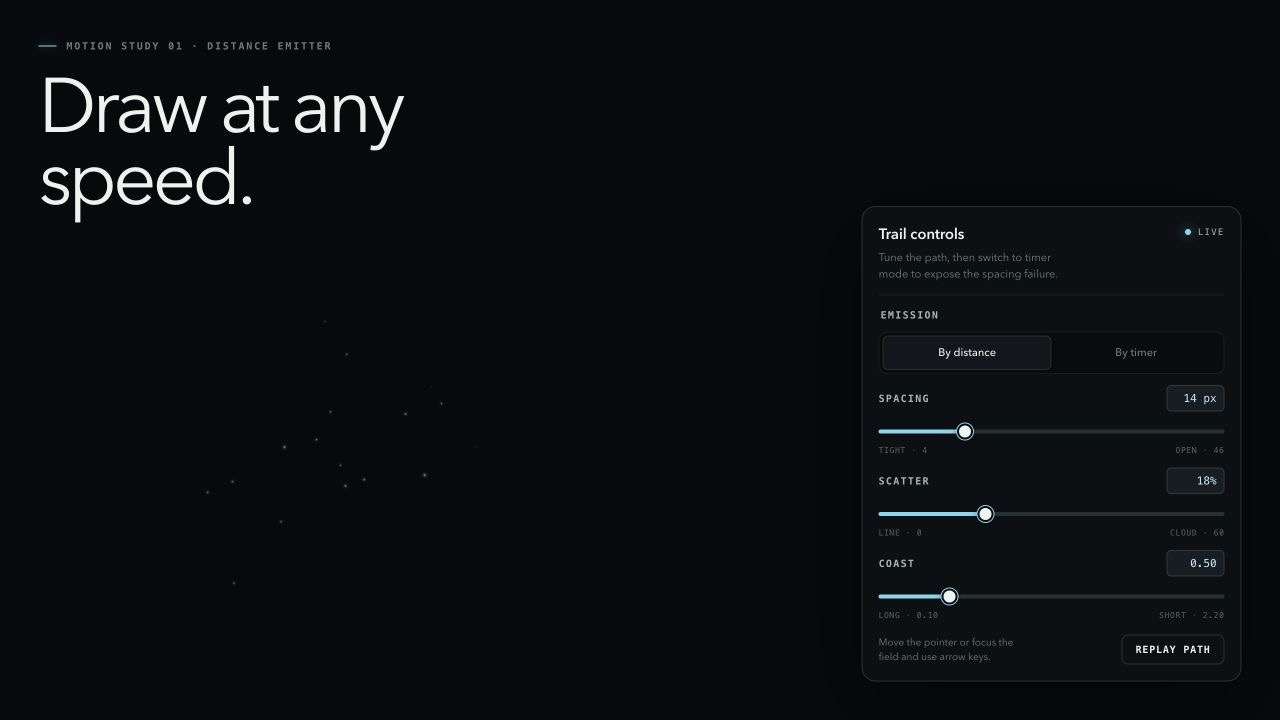
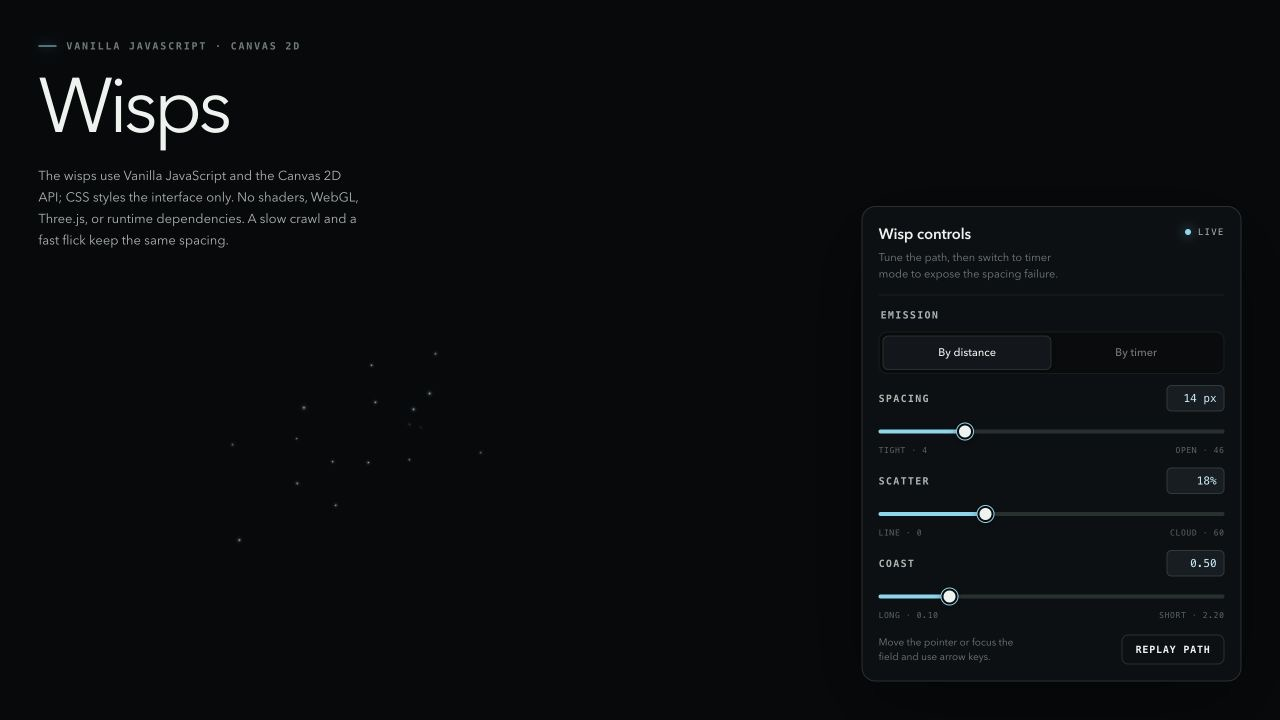
Name web demos and disclose their stack

Changed region(s): [[0.0312, 0.0611, 0.3125, 0.3361], [0.6875, 0.3056, 0.75, 0.3361], [0.2188, 0.0611, 0.25, 0.0917]]

diff --git a/agent-skills/web-design/pointer-trail-emitter/demo/index.html b/agent-skills/web-design/pointer-trail-emitter/demo/index.html
@@ -3,7 +3,7 @@
 <head>
 <meta charset="utf-8">
 <meta name="viewport" content="width=device-width, initial-scale=1">
-<title>Pointer Trail Emitter — Motion Lab</title>
+<title>Wisps — Vanilla JavaScript + Canvas 2D</title>
 <link rel="icon" href="data:,">
 <style>
   :root{
@@ -342,7 +342,6 @@
   @media (max-width:700px){
     .sheet{ padding:20px; }
     h1{ max-width:8ch; font-size:clamp(38px,13vw,58px); }
-    .intro-copy{ display:none; }
     .wisp-panel{
       left:12px;
       right:12px;
@@ -357,7 +356,6 @@
   }
 
   @media (max-height:720px){
-    .intro-copy{ display:none; }
     .wisp-panel{ padding:16px; }
     .panel-head{ margin-bottom:12px; padding-bottom:12px; }
     .hud{ gap:11px; }
@@ -382,15 +380,15 @@
 
 <main class="sheet">
   <header class="intro">
-    <p class="eyebrow">Motion study 01 · Distance emitter</p>
-    <h1>Draw at any speed.</h1>
-    <p class="intro-copy">A distance emitter spends particles along the path, so a slow crawl and a fast flick draw the same continuous ribbon.</p>
+    <p class="eyebrow">Vanilla JavaScript · Canvas 2D</p>
+    <h1>Wisps</h1>
+    <p class="intro-copy">The wisps use Vanilla JavaScript and the Canvas 2D API; CSS styles the interface only. No shaders, WebGL, Three.js, or runtime dependencies. A slow crawl and a fast flick keep the same spacing.</p>
   </header>
 
   <section class="wisp-panel" aria-labelledby="wisp-title">
     <div class="panel-head">
       <div>
-        <h2 class="panel-kicker" id="wisp-title">Trail controls</h2>
+        <h2 class="panel-kicker" id="wisp-title">Wisp controls</h2>
         <p class="panel-claim">Tune the path, then switch to timer mode to expose the spacing failure.</p>
       </div>
       <span class="live" aria-hidden="true">Live</span>

diff --git a/agent-skills/codex/web-technique-to-skill/SKILL.md b/agent-skills/codex/web-technique-to-skill/SKILL.md
@@ -1,6 +1,6 @@
 ---
 name: web-technique-to-skill
-description: Turn a visual or interaction technique you already built into a reusable web-design skill, by isolating the one mechanism that makes it work while reproducing its approved reference exactly around that focus, and packaging it with a demo that proves both the mechanism and the visual fidelity. Covers finding the mechanism, auditing reference layers, carrying real numbers instead of adjectives, preserving owned staging, keeping expensive gotchas, declaring the boundary against neighbouring skills, and browser-verifying before claiming it works. Use when a page, canvas scene, shader, scroll effect, layout system, or hover interaction turned out well and should become a skill rather than staying in one project.
+description: Turn a visual or interaction technique you already built into a reusable web-design skill, by isolating the one mechanism that makes it work while reproducing its approved reference exactly around that focus, and packaging it with a demo that proves both the mechanism and the visual fidelity. Covers finding the mechanism, naming the technique plainly, disclosing the verified runtime and renderer, auditing reference layers, carrying real numbers instead of adjectives, preserving owned staging, keeping expensive gotchas, declaring the boundary against neighbouring skills, and browser-verifying before claiming it works. Use when a page, canvas scene, shader, scroll effect, layout system, or hover interaction turned out well and should become a skill rather than staying in one project.
 ---
 
 # Web Technique to Skill
@@ -18,6 +18,22 @@ Write the sentence before you write anything else: *the one thing that, if remov
 The sentence decides everything downstream. For a leaf fall it is "the tumble crosses edge-on, and that instant of near-disappearance is what the eye reads as a leaf" — so the sprite artwork, the palette, and the night scene are all staging, and the tumble is the skill.
 
 Test it: change the subject, the palette, and the layout in your head. If the sentence still holds, it is the mechanism. If it stops making sense, you named the staging.
+
+## Name the demo and disclose the stack
+
+Use the concrete technique name for the visible `h1` and browser `<title>`: **Wisps**, **Cursor Ripples**, **Liquid Metal Border**, or **Scroll-scrubbed Word Reveal**. Do not hide the subject behind an abstract mechanism claim. “Draw at any speed” describes behaviour, but it does not tell anyone what the demo is.
+
+Put the verified implementation path directly above or below that title. Name, in order:
+
+1. The runtime or framework: Vanilla JavaScript, React, Vue
+2. The renderer or browser API: Canvas 2D, WebGL, DOM/CSS, SVG
+3. The technique layer when present: GLSL shaders, Three.js, GSAP, ScrollTrigger
+
+Write **Vanilla JavaScript · Canvas 2D** or **Three.js · WebGL · GLSL**, not “interactive experiment” or “motion study.” Never guess from the look. Verify imports, renderer construction, and context creation in the source. `getContext('2d')` is Canvas 2D, not a shader; `WebGLRenderer` plus `ShaderMaterial` is Three.js, WebGL, and GLSL. When the visual could be mistaken for a more complex stack, state the absence plainly: **No WebGL, shaders, or Three.js.**
+
+Separate the effect stack from the interface stack when they differ. Write **Vanilla JavaScript + Canvas 2D effect; CSS interface** instead of listing CSS beside Canvas 2D as if both render the particles. Readers should know which technology creates the technique and which technology only lays out its controls.
+
+If an approved reference headline must remain for layout fidelity, keep it and put the technique name plus stack in the browser title and the reference's existing kicker, control panel, or secondary label. The implementation must still be obvious on the first screen.
 
 ## Split mechanism from staging
 
@@ -99,15 +115,18 @@ So the demo inherits the craft bar of the source, not the craft bar of a code sa
 - **Owned reference assets cross with the technique when they are necessary for fidelity.** Copy the smallest local set the demo needs and record their provenance. Exact owned staging outranks a one-file preference; a portable local bundle is better than a self-contained approximation that no longer matches. What must not cross is anything you do not own: a client's brand, licensed fonts, purchased imagery, or third-party media.
 - **Show the mechanism on the first screen** — before any scroll, before any interaction. If it takes a click to see the point, the framing is wrong.
 - **Verify the whole state path when the mechanism spans time or scroll.** The opening frame must establish the world and expose its conductor, but it cannot prove a multi-scene journey by itself. Compare every authored key state plus the forward, reverse, fast-skip, and reload-at-depth paths; a perfect hero does not excuse a broken third chapter.
-- **Preserve layout-defining reference copy.** If changing the headline or body would change the approved composition, keep it exactly and put the mechanism argument into the reference's existing secondary panel, controls, microcopy, or accessible description. Do not trade visual fidelity for an explanatory headline.
+- **Preserve layout-defining reference copy.** If changing the headline or body would change the approved composition, keep it exactly and put the technique name, verified stack, and mechanism argument into the browser title plus the reference's existing secondary panel, controls, microcopy, or accessible description. Do not trade visual fidelity for an explanatory headline, but never leave the implementation unidentified.
 - **Keep a family.** Two techniques pulled from the same reference should produce two demos that look like siblings. A library of demos that share a reference reads as a body of work; a library where each one invents its own world reads as scraps.
 
-A worked example of the copy rule, for a trail that emits per unit of distance:
+A worked example of the copy rule, for a Canvas 2D trail that emits per unit of distance:
 
-> **A flick and a crawl draw the same line.**
-> The motes are shed by distance, not by the clock, so the spacing along the path never changes with the speed of the hand. Switch emission to a timer and the same gesture breaks apart — a fast pass leaves scattered dots, a resting hand piles them on one spot.
+> Vanilla JavaScript · Canvas 2D
+>
+> **Wisps**
+>
+> Distance-emitted Canvas 2D particles keep the same spacing at any hand speed; CSS styles the interface only. Switch emission to a timer and the same gesture breaks apart — a fast pass leaves scattered dots, while a resting hand piles them on one spot. No WebGL, shaders, or Three.js.
 
-The headline is the mechanism. The body is the failure. The control named in the last sentence is on screen, so the reader can go and check the claim.
+The title names the effect. The kicker identifies the stack. The body states the mechanism, the failure, and any likely implementation ambiguity. The control named in the body is on screen, so the reader can check the claim.
 - **One idea per screen.** A demo proving three things proves none of them.
 - **Controls expose states that matter**, as real form elements, and prove the system is parameterised rather than baked. Skip controls that only restate what is already visible.
 
@@ -119,6 +138,7 @@ Every one of these, every time:
 - Spacing on one consistent rhythm
 - A restrained palette with one accent that carries meaning
 - Every interactive control styled, including its focus state
+- A concrete technique title plus the verified runtime, renderer, and major technique libraries on the first screen
 - Real, specific copy from a plausible project — never "Card title" or "Demo section"
 - One self-contained file when the exact reference permits it; otherwise a minimal local bundle of owned assets with no remote runtime dependency
 - 390px through 1440px, semantic HTML, visible focus, and a clean console at both ends
@@ -130,13 +150,14 @@ If the demo would embarrass you next to the page you extracted it from, it is no
 Do not claim visual or interaction behavior from reading the file. Drive it:
 
 1. Load the demo at 1440×900 and 390×844.
-2. Exercise the primary interaction and confirm the state actually changes.
-3. For scroll, timeline, or multi-state techniques, traverse every authored state forward and backward, fast-skip across seams, and reload at a nonzero state.
-4. Tab through and confirm focus is visible and ordered.
-5. Run the reduced-motion path and confirm a composed frame renders and animation stops.
-6. Confirm the console is clean at both sizes.
-7. Capture the preview at the repository's shared dimensions.
-8. Compare the demo and source side by side at the source viewport. For multi-state techniques, compare every representative key state. Fix structural drift in hierarchy, crop, scale, alignment, and atmosphere before polishing the isolated effect.
+2. Confirm the visible title names the technique and the stack disclosure matches the source imports, renderer, and context creation.
+3. Exercise the primary interaction and confirm the state actually changes.
+4. For scroll, timeline, or multi-state techniques, traverse every authored state forward and backward, fast-skip across seams, and reload at a nonzero state.
+5. Tab through and confirm focus is visible and ordered.
+6. Run the reduced-motion path and confirm a composed frame renders and animation stops.
+7. Confirm the console is clean at both sizes.
+8. Capture the preview at the repository's shared dimensions.
+9. Compare the demo and source side by side at the source viewport. For multi-state techniques, compare every representative key state. Fix structural drift in hierarchy, crop, scale, alignment, and atmosphere before polishing the isolated effect.
 
 Expect this pass to find something. When it does, fix the demo and re-run rather than softening the rule.
 
@@ -160,6 +181,8 @@ Stage only the new folder and the gallery rows it needs. Review `git diff --cach
 ## Verify
 
 - [ ] The mechanism sentence survives changing the subject, palette, and layout
+- [ ] The visible title names the technique instead of using an abstract mechanism claim
+- [ ] The first screen states the verified runtime, renderer or browser API, and major technique libraries
 - [ ] Staging lives in the demo, not in the skill body
 - [ ] Every rule names the failure it prevents
 - [ ] Constants are real numbers, not adjectives

diff --git a/agent-skills/web-design/pointer-trail-emitter/demo/PROMPT.md b/agent-skills/web-design/pointer-trail-emitter/demo/PROMPT.md
@@ -8,12 +8,13 @@ Use $pointer-trail-emitter to add a mote trail to this hero that emits by distan
 
 ## Recreate the demo
 
-Use `$pointer-trail-emitter` to build **Pointer Trail Emitter** as a focused local demo. Treat `index.html` as the visual, motion, responsive, accessibility, and performance reference.
+Use `$pointer-trail-emitter` to build **Wisps** as a focused local demo. Treat `index.html` as the visual, motion, responsive, accessibility, and performance reference.
 
 ### Experience
 
 - Use a solid, neutral dark field with no background image. The trail is the only visual mechanism under study.
-- Keep a short explanation at the top-left and a compact control panel at the bottom-right. Preserve as much open field as possible for drawing.
+- Title the page **Wisps**. Put the verified effect stack — **Vanilla JavaScript · Canvas 2D** — directly above it, then state plainly that CSS styles the interface only and that the effect uses no shaders, WebGL, Three.js, or runtime dependencies.
+- Keep the implementation explanation at the top-left and a compact control panel at the bottom-right. Preserve as much open field as possible for drawing.
 - Make every range control full-width with a visible filled track, a generous thumb, a live numeric value, and labelled endpoints.
 - **The mechanism is legible before anyone touches anything.** On load the field traces its own path — a slow arc, then a fast one — and under distance emission both stretches carry identical spacing, which is the point. Any pointer or key input takes over immediately.
 - An emission toggle switches between distance and a timer. Under the timer the same gesture breaks apart: a fast pass scatters the line into dots, a resting hand piles motes on one spot.

diff --git a/agent-skills/web-design/pointer-trail-emitter/SKILL.md b/agent-skills/web-design/pointer-trail-emitter/SKILL.md
@@ -9,7 +9,7 @@ Build the emitter yourself when the trail's density has to respond to how fast t
 
 Reach for `add-shader-cursor-trail` or `shaders-cursor-ripples` when you want the packaged WebGPU looks from the Shaders library. Reach for `reveal-hover-effect` when the cursor exposes a second image through a mask. Reach for `ambient-section-particles` when motes fill a section and the pointer only disturbs them. Reach for this when the pointer *lays* them.
 
-The bundled demo keeps the stage intentionally neutral. A plain dark field makes spacing, scatter, and coast easy to judge without a background image competing with the trail. Keep the live canvas separate from the interface so the emitter stays testable rather than baked into a composition.
+The bundled demo keeps the stage intentionally neutral. A plain dark field makes spacing, scatter, and coast easy to judge without a background image competing with the trail. The wisps are dependency-free Vanilla JavaScript rendered through the Canvas 2D API; CSS styles the interface only. There are no shaders, WebGL, or Three.js. Keep the live canvas separate from the interface so the emitter stays testable rather than baked into a composition.
 
 ## Emit by distance, not by time
 
